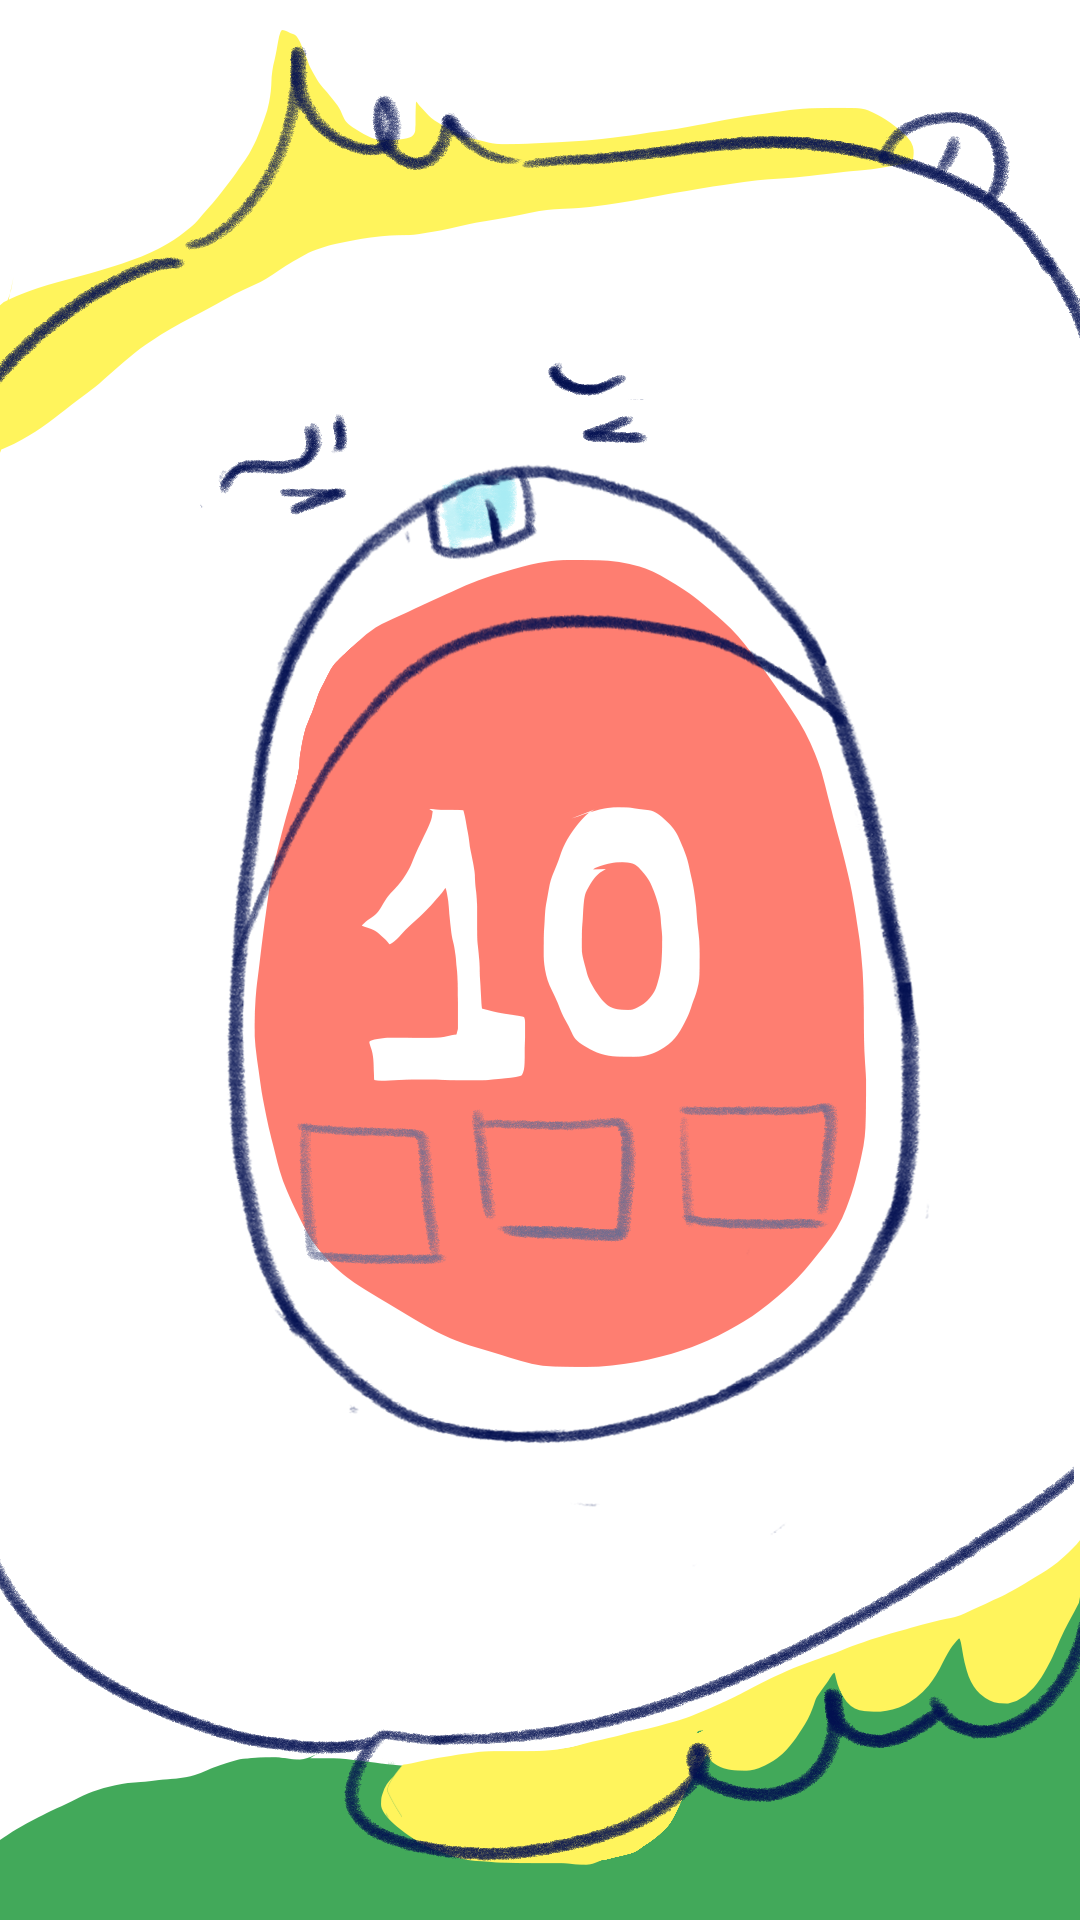
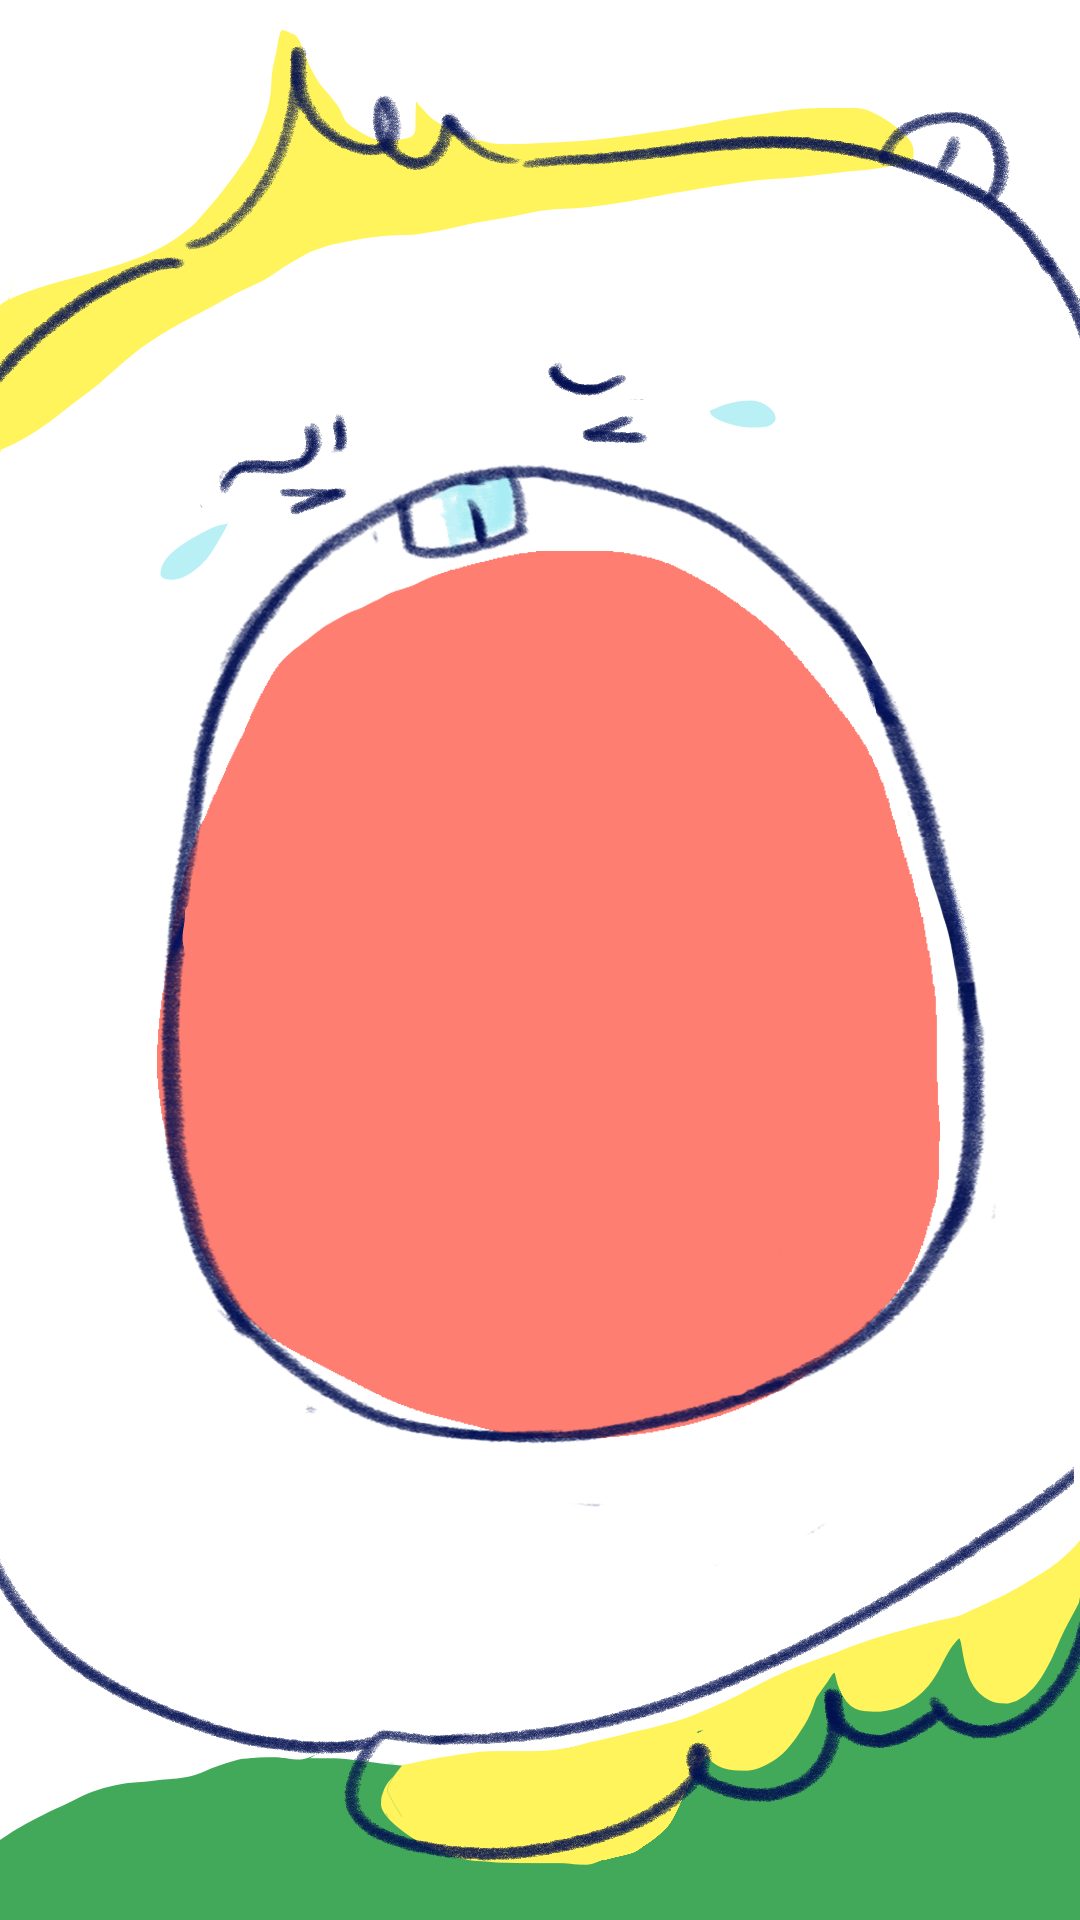
Add GameOver buttons

Changed region(s): [[0.1222, 0.1875, 0.9167, 0.75], [0.1528, 0.25, 0.2139, 0.3125]]

diff --git a/sources/Unite Team's Gameloft GameJam Project/Assets/Scripts/GameOver/GameOver.cs b/sources/Unite Team's Gameloft GameJam Project/Assets/Scripts/GameOver/GameOver.cs
@@ -1,0 +1,29 @@
+using System.Collections;
+using System.Collections.Generic;
+using UnityEngine;
+using UnityEngine.SceneManagement;
+
+public class GameOver : MonoBehaviour
+{
+    // Start is called before the first frame update
+    void Start()
+    {
+
+    }
+
+    // Update is called once per frame
+    void Update()
+    {
+
+    }
+
+    public void ToMenu()
+    {
+        SceneManager.LoadScene("Menu");
+    }
+
+    public void PlayAgain()
+    {
+        SceneManager.LoadScene("Play");
+    }
+}
